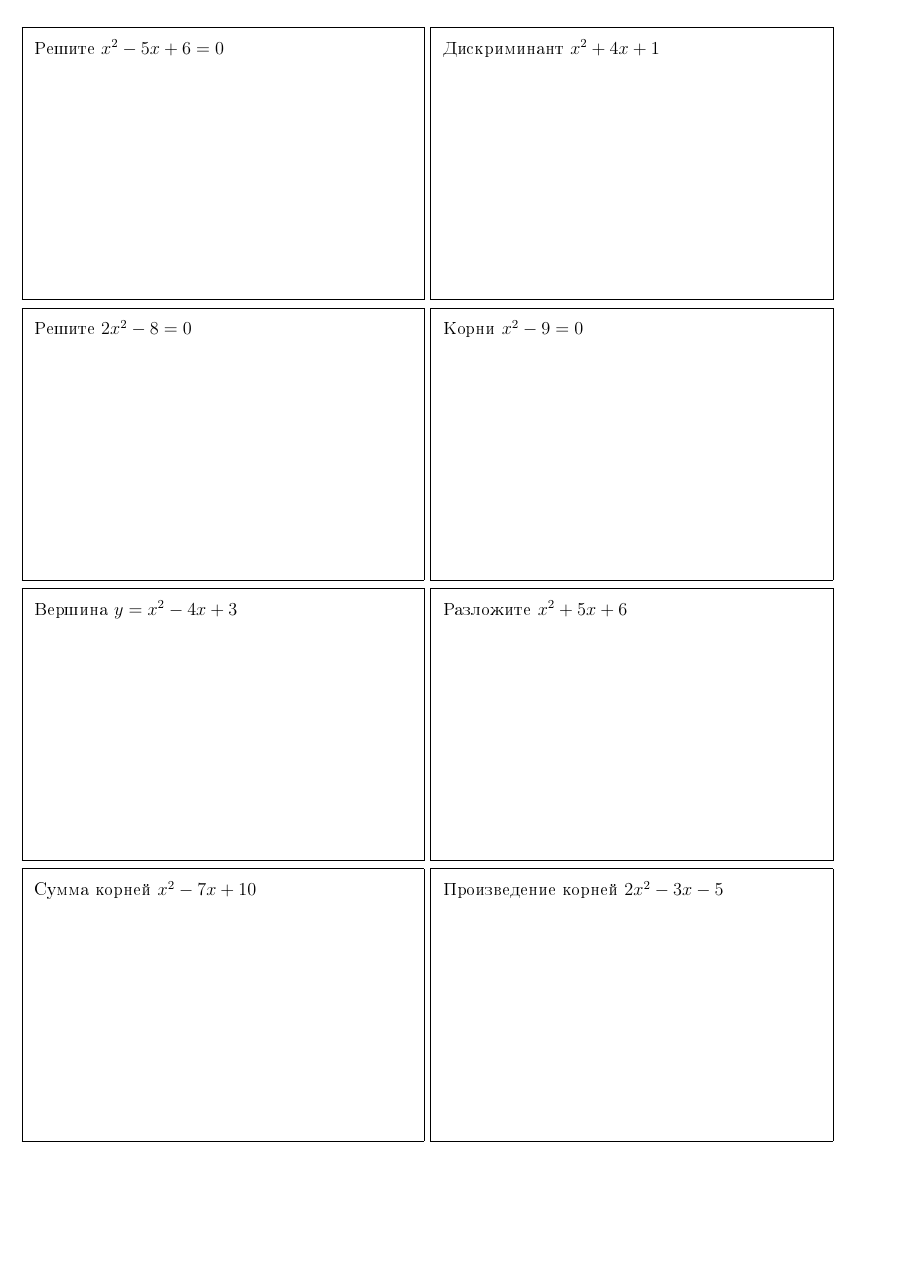
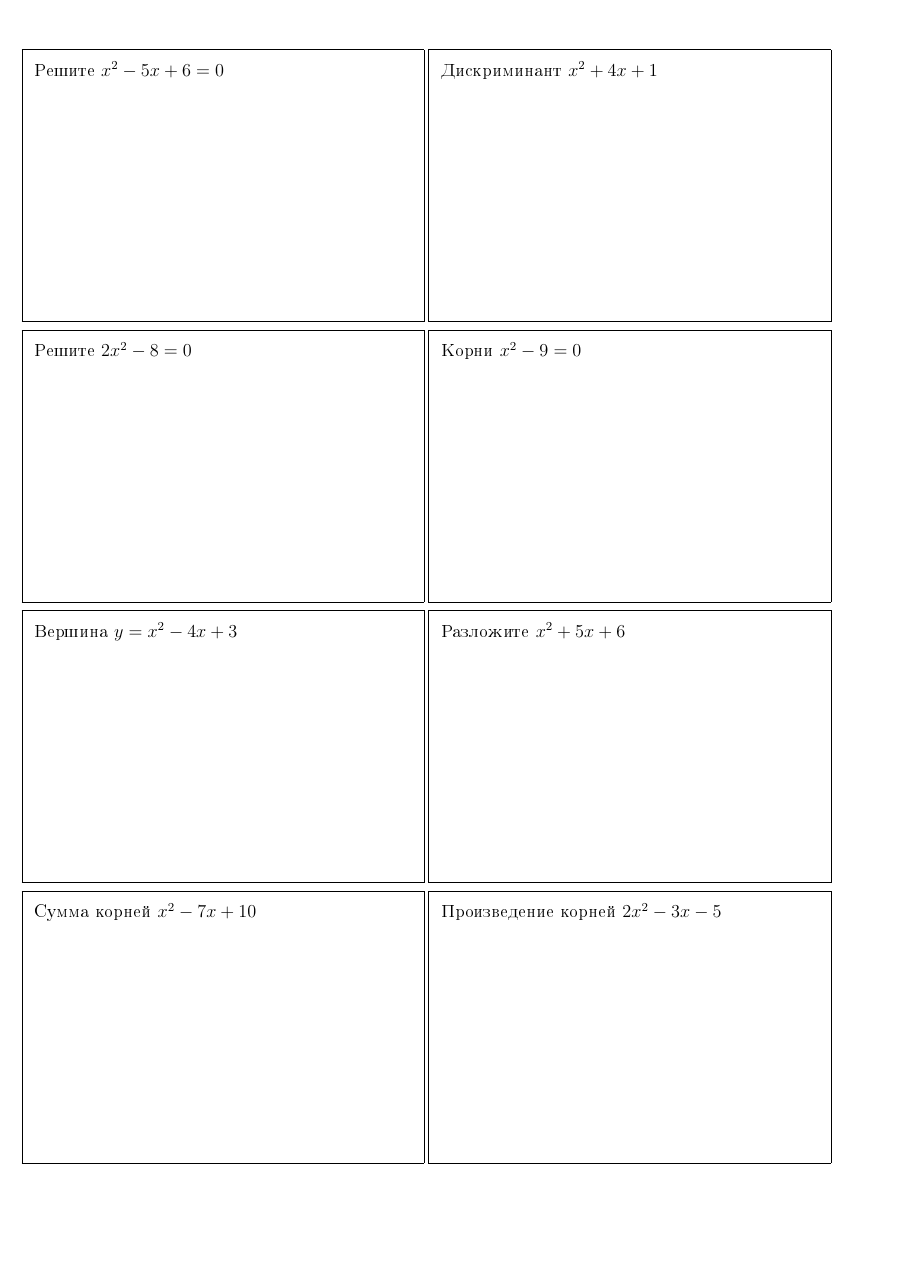
feat: add print calibration controls

diff --git a/app/didactic_cards/adapters/latex_renderer.py b/app/didactic_cards/adapters/latex_renderer.py
@@ -1,5 +1,6 @@
 from __future__ import annotations
 
+import math
 import re
 
 from ..domain.entities import Card, CardDeck
@@ -66,6 +67,11 @@ class LatexRenderer(DocumentRenderer):
         fbox_rule_pt: float = 0.4,
         back_border: bool = False,
         duplex_mode: DuplexMode | str = DuplexMode.LONG_EDGE,
+        front_offset_x_mm: float = 0.0,
+        front_offset_y_mm: float = 0.0,
+        back_offset_x_mm: float = 0.0,
+        back_offset_y_mm: float = 0.0,
+        registration_marks: bool = False,
     ):
         if cards_per_row <= 0 or rows_per_page <= 0:
             raise ValueError('cards_per_row and rows_per_page must be positive')
@@ -73,6 +79,16 @@ class LatexRenderer(DocumentRenderer):
             raise ValueError('card dimensions must be positive')
         if fbox_sep_pt < 0 or fbox_rule_pt < 0:
             raise ValueError('frame spacing and rule must not be negative')
+        offsets = (
+            front_offset_x_mm,
+            front_offset_y_mm,
+            back_offset_x_mm,
+            back_offset_y_mm,
+        )
+        if not all(math.isfinite(offset) for offset in offsets):
+            raise ValueError('calibration offsets must be finite')
+        if any(abs(offset) > 10 for offset in offsets):
+            raise ValueError('calibration offsets must be within +/- 10 mm')
 
         frame_inset_cm = 2 * (fbox_sep_pt + fbox_rule_pt) * PT_TO_CM
         if card_width_cm <= frame_inset_cm or card_height_cm <= frame_inset_cm:
@@ -93,6 +109,9 @@ class LatexRenderer(DocumentRenderer):
         self.fbox_rule = fbox_rule_pt
         self.back_border = back_border
         self.duplex_mode = DuplexMode(duplex_mode)
+        self.front_offset = (front_offset_x_mm, front_offset_y_mm)
+        self.back_offset = (back_offset_x_mm, back_offset_y_mm)
+        self.registration_marks = registration_marks
         self.cards_per_page = cards_per_row * rows_per_page
 
     def render(self, deck: CardDeck) -> str:
@@ -133,6 +152,7 @@ class LatexRenderer(DocumentRenderer):
 \usepackage{{enumitem}}
 \usepackage{{multicol}}
 \usepackage{{xcolor}}
+\usepackage{{tikz}}
 
 \geometry{{a4paper, margin=0.5cm}}
 
@@ -156,6 +176,18 @@ class LatexRenderer(DocumentRenderer):
 }}
 \newcommand{{\frontcard}}[1]{{\cardbox{{\fbox}}{{#1}}}}
 \newcommand{{\backcard}}[1]{{\cardbox{{{back_frame}}}{{#1}}}}
+\newcommand{{\registrationmarks}}{{%
+    \begin{{tikzpicture}}[remember picture,overlay,line width=0.2pt]
+    \draw ([yshift=-5mm]current page.north) ++(-3mm,0) -- ++(6mm,0);
+    \draw ([yshift=-5mm]current page.north) ++(0,-3mm) -- ++(0,6mm);
+    \draw ([yshift=5mm]current page.south) ++(-3mm,0) -- ++(6mm,0);
+    \draw ([yshift=5mm]current page.south) ++(0,-3mm) -- ++(0,6mm);
+    \draw ([xshift=5mm]current page.west) ++(-3mm,0) -- ++(6mm,0);
+    \draw ([xshift=5mm]current page.west) ++(0,-3mm) -- ++(0,6mm);
+    \draw ([xshift=-5mm]current page.east) ++(-3mm,0) -- ++(6mm,0);
+    \draw ([xshift=-5mm]current page.east) ++(0,-3mm) -- ++(0,6mm);
+    \end{{tikzpicture}}%
+}}
 
 \pagestyle{{empty}}
 \setlist[itemize]{{label={{}}, left=0.5em, itemsep=-2pt, topsep=0.5ex}}
@@ -166,7 +198,12 @@ class LatexRenderer(DocumentRenderer):
 
     def _render_page(self, cards: tuple[Card, ...], *, side: str) -> str:
         command = r'\frontcard' if side == 'front' else r'\backcard'
-        result = ''
+        offset_x, offset_y = self.front_offset if side == 'front' else self.back_offset
+        grid_width = self.cards_per_row * self.card_width
+        result = r'\registrationmarks' + '\n' if self.registration_marks else ''
+        result += f'\\vspace*{{{offset_y}mm}}%\n'
+        result += f'\\noindent\\hspace*{{{offset_x}mm}}%\n'
+        result += f'\\begin{{minipage}}[t]{{{grid_width}cm}}\n'
         for row in range(self.rows_per_page):
             for column in range(self.cards_per_row):
                 index = row * self.cards_per_row + column
@@ -176,4 +213,4 @@ class LatexRenderer(DocumentRenderer):
                     result += '%\n'
             if row < self.rows_per_page - 1:
                 result += '\n'
-        return result
+        return result + r'\end{minipage}' + '\n'

diff --git a/app/tests/test_latex_renderer.py b/app/tests/test_latex_renderer.py
@@ -1,4 +1,5 @@
 import pytest
+import re
 import shutil
 import subprocess
 from didactic_cards.domain.entities import Card, CardDeck
@@ -189,11 +190,40 @@ class TestLatexRenderer:
             {'card_width_cm': 0.1, 'fbox_sep_pt': 8},
             {'card_width_cm': 0},
             {'fbox_rule_pt': -0.1},
+            {'back_offset_x_mm': 11},
+            {'front_offset_y_mm': float('nan')},
         ],
     )
     def test_invalid_layout_is_rejected(self, kwargs):
         with pytest.raises(ValueError):
             LatexRenderer(**kwargs)
+
+    def test_calibration_offsets_are_applied_per_side(self):
+        source = LatexRenderer(
+            cards_per_row=1,
+            rows_per_page=1,
+            front_offset_x_mm=1.25,
+            front_offset_y_mm=-0.5,
+            back_offset_x_mm=-2.0,
+            back_offset_y_mm=0.75,
+        ).render(self.make_deck(1))
+        front_source, back_source = source.split('задние стороны', 1)
+        assert r'\hspace*{1.25mm}' in front_source
+        assert r'\vspace*{-0.5mm}' in front_source
+        assert r'\hspace*{-2.0mm}' in back_source
+        assert r'\vspace*{0.75mm}' in back_source
+
+    def test_registration_marks_are_opt_in(self):
+        without_marks = LatexRenderer(cards_per_row=1, rows_per_page=1).render(
+            self.make_deck(1)
+        )
+        with_marks = LatexRenderer(
+            cards_per_row=1,
+            rows_per_page=1,
+            registration_marks=True,
+        ).render(self.make_deck(1))
+        assert without_marks.count(r'\registrationmarks') == 1  # macro definition only
+        assert with_marks.count(r'\registrationmarks') == 3  # definition + two pages
 
     @pytest.mark.xfail(
         strict=True,
@@ -257,3 +287,42 @@ def test_real_pdf_interleaves_two_physical_sheets(tmp_path):
     assert 'BACK-2' in pages[1] and 'BACK-1' in pages[1]
     assert 'FRONT-3' in pages[2] and 'FRONT-4' in pages[2]
     assert 'BACK-4' in pages[3] and 'BACK-3' in pages[3]
+
+
+@pytest.mark.integration
+def test_real_pdf_card_frame_matches_configured_cut_size(tmp_path):
+    if not shutil.which('pdflatex') or not shutil.which('mutool'):
+        pytest.skip('pdflatex/mutool are required for the geometry integration test')
+
+    renderer = LatexRenderer(
+        card_width_cm=9.3,
+        card_height_cm=6.3,
+        cards_per_row=1,
+        rows_per_page=1,
+        back_border=True,
+        registration_marks=True,
+    )
+    result = PdfLatexCompiler().compile(
+        renderer.render(CardDeck([Card(front='FRAME-FRONT', back='FRAME-BACK')]))
+    )
+    assert result.success, result.log
+
+    pdf_path = tmp_path / 'geometry.pdf'
+    pdf_path.write_bytes(result.pdf_data)
+    svg_pattern = tmp_path / 'geometry-%d.svg'
+    subprocess.run(
+        ['mutool', 'draw', '-F', 'svg', '-o', str(svg_pattern), str(pdf_path), '1'],
+        capture_output=True,
+        text=True,
+        check=True,
+    )
+    svg = (tmp_path / 'geometry-1.svg').read_text(encoding='utf-8')
+    horizontal_lengths = [float(value) for value in re.findall(r'd="M0 0H([0-9.]+)', svg)]
+    vertical_lengths = [float(value) for value in re.findall(r'd="M0 0V([0-9.]+)', svg)]
+    rule_widths = [float(value) for value in re.findall(r'stroke-width="([0-9.]+)', svg)]
+
+    assert horizontal_lengths and vertical_lengths and rule_widths
+    width_cm = max(horizontal_lengths) * 2.54 / 72
+    height_cm = (max(vertical_lengths) + max(rule_widths)) * 2.54 / 72
+    assert width_cm == pytest.approx(9.3, abs=0.01)
+    assert height_cm == pytest.approx(6.3, abs=0.01)

diff --git a/app/config.py b/app/config.py
@@ -15,6 +15,11 @@ class CardLayoutConfig:
     fbox_rule_pt: float = 0.4
     back_border: bool = False  # True = рамка на обороте (для отладки центровки)
     duplex_mode: DuplexMode = DuplexMode.LONG_EDGE
+    front_offset_x_mm: float = 0.0
+    front_offset_y_mm: float = 0.0
+    back_offset_x_mm: float = 0.0
+    back_offset_y_mm: float = 0.0
+    registration_marks: bool = False
 
     def __post_init__(self) -> None:
         if self.cards_per_row <= 0 or self.rows_per_page <= 0:
@@ -24,6 +29,10 @@ class CardLayoutConfig:
             self.card_height_cm,
             self.fbox_sep_pt,
             self.fbox_rule_pt,
+            self.front_offset_x_mm,
+            self.front_offset_y_mm,
+            self.back_offset_x_mm,
+            self.back_offset_y_mm,
         )
         if not all(math.isfinite(value) for value in numeric_values):
             raise ValueError('layout dimensions must be finite')
@@ -31,6 +40,14 @@ class CardLayoutConfig:
             raise ValueError('card dimensions must be positive')
         if self.fbox_sep_pt < 0 or self.fbox_rule_pt < 0:
             raise ValueError('frame spacing and rule must not be negative')
+        offsets = (
+            self.front_offset_x_mm,
+            self.front_offset_y_mm,
+            self.back_offset_x_mm,
+            self.back_offset_y_mm,
+        )
+        if any(abs(offset) > 10 for offset in offsets):
+            raise ValueError('calibration offsets must be within +/- 10 mm')
 
         frame_inset_cm = 2 * (self.fbox_sep_pt + self.fbox_rule_pt) * 2.54 / 72.27
         if self.card_width_cm <= frame_inset_cm or self.card_height_cm <= frame_inset_cm:

diff --git a/app/run.py b/app/run.py
@@ -24,6 +24,11 @@ def create_app() -> Flask:
         fbox_rule_pt=layout.fbox_rule_pt,
         back_border=layout.back_border,
         duplex_mode=layout.duplex_mode,
+        front_offset_x_mm=layout.front_offset_x_mm,
+        front_offset_y_mm=layout.front_offset_y_mm,
+        back_offset_x_mm=layout.back_offset_x_mm,
+        back_offset_y_mm=layout.back_offset_y_mm,
+        registration_marks=layout.registration_marks,
     )
     app.config['COMPILER'] = PdfLatexCompiler(
         pdflatex_path=cfg.pdflatex_path,

diff --git a/app/tests/test_app_and_config.py b/app/tests/test_app_and_config.py
@@ -55,6 +55,8 @@ def test_data_location_is_independent_of_current_working_directory(tmp_path, mon
         {'card_width_cm': 0.1, 'fbox_sep_pt': 8},
         {'card_width_cm': 20, 'cards_per_row': 2},
         {'card_height_cm': 10, 'rows_per_page': 3},
+        {'back_offset_x_mm': 11},
+        {'front_offset_y_mm': float('nan')},
         {'duplex_mode': 'diagonal'},
     ],
 )

diff --git a/docs/REMEDIATION_PLAN.md b/docs/REMEDIATION_PLAN.md
@@ -14,8 +14,10 @@
   - [x] Убран безусловный поворот оборота на 180°.
   - [x] Настраиваемый размер стал внешним cut size; layout валидируется до компиляции.
   - [x] Добавлен реальный четырёхстраничный `pdflatex`/`pdftotext` integration test.
-  - [ ] Добавить calibration offsets, registration/crop marks и overflow preflight.
-  - [ ] Выполнить golden bounding-box/raster tests и физический прогон.
+  - [x] Добавлены независимые offsets сторон (±10 мм) и опциональные registration marks.
+  - [x] Реальный PDF geometry test измеряет векторную рамку через `mutool` с допуском 0.1 мм.
+  - [ ] Добавить overflow preflight.
+  - [ ] Выполнить raster golden tests и физический прогон.
 - [ ] Этап 2: безопасная граница TeX/HTTP.
 - [ ] Этап 3: транзакционное persistence.
 - [ ] Этап 4: импорт и web UX.
@@ -43,7 +45,7 @@
 - сгенерирован настоящий A4 PDF, обе страницы растеризованы и визуально проверены;
 - проверены зависимости через `pip check` и исходники через `git diff --check`.
 
-Текущая автоматизированная база: 120 проходящих тестов и 24 строгих `xfail`-контракта для подтверждённых дефектов. Общий branch coverage составляет 99.56% при обязательном CI-пороге 98%. Физический прогон на нескольких моделях принтеров ещё обязателен: PDF-проверка не моделирует driver margins, feed skew и аппаратный duplex offset.
+Текущая автоматизированная база: 127 проходящих тестов и 24 строгих `xfail`-контракта для подтверждённых дефектов. Общий branch coverage составляет 99.57% при обязательном CI-пороге 98%. Физический прогон на нескольких моделях принтеров ещё обязателен: PDF-проверка не моделирует driver margins, feed skew и аппаратный duplex offset.
 
 ## 3. Реестр дефектов
 
@@ -53,7 +55,7 @@
 |---|---|---|---|
 | ~~BUG-PRINT-001~~ ✅ | `LatexRenderer` формировал все fronts, затем все backs. | Выполнено: `Sheet` отделяет физическую модель, PDF идёт `F1,B1,F2,B2…`; unit и реальный четырёхстраничный TeX test проходят. | Автоматизированная часть выполнена; physical matrix остаётся в этапе 1. |
 | ~~BUG-PRINT-002~~ ✅ | Оборот сочетал horizontal mirror с `rotatebox{180}`. | Выполнено: явные long-edge/short-edge permutations без безусловного поворота текста. | Unit-transform tests проходят; физическая проверка обоих режимов остаётся. |
-| ~~BUG-PRINT-003~~ ✅ | `9.3 × 6.3` были размером inner minipage, а не cut box. | Выполнено: content box вычисляется вычитанием frame inset, `fboxrule` фиксирован явно. | Числовой contract выполнен; golden PDF geometry test остаётся частью этапа 1. |
+| ~~BUG-PRINT-003~~ ✅ | `9.3 × 6.3` были размером inner minipage, а не cut box. | Выполнено: content box вычисляется вычитанием frame inset, `fboxrule` фиксирован явно. | Векторная рамка реального PDF измеряется через `mutool` с допуском 0.1 мм. |
 | BUG-HTTP-003 | Русское имя PDF вызывает `UnicodeEncodeError` на реальном dev-сервере. | Использовать Werkzeug `send_file(..., download_name=...)` или ASCII fallback + `filename*=UTF-8''...`; нормализовать CR/LF/quotes. | Скачиваются имена на русском, emoji и кавычки; каждый header кодируется/отдаётся WSGI без ошибки. |
 | BUG-SEC-001 | Команды внутри `$...$` не экранируются. | Перейти от regex к ограниченному parser/allowlist математических команд; запретить `\input`, `\include`, `\write`, `\openin`, `\csname`, macro definitions и закрытие окружений. | Набор malicious fixtures не читает файлы, не меняет документ и даёт понятную validation error. |
 | BUG-SEC-002 | Нет явного `-no-shell-escape`. | Добавить `-no-shell-escape`, `-halt-on-error`, изолированный env/TEXMF; в deployment компилировать непривилегированным worker/container. | Команда компилятора проверена тестом; файловый и процессный sandbox подтверждён integration-тестом. |

diff --git a/docs/USER_AND_TECHNICAL_GUIDE.md b/docs/USER_AND_TECHNICAL_GUIDE.md
@@ -4,7 +4,7 @@
 
 Приложение хранит несколько колод, позволяет редактировать пары «задание — ответ» и генерирует A4 PDF размером 2 × 4 карточки. PDF строится не браузером: сервер экранирует текст, формирует LaTeX и запускает `pdflatex` во временном каталоге.
 
-Текущая версия подходит для редактирования контента и технического просмотра LaTeX. Программные блокеры `BUG-PRINT-001…003` уже устранены: PDF чередует стороны каждого физического листа, поддерживает long-edge/short-edge transforms и трактует заданные сантиметры как внешний размер карточки. Для ответственной печати всё ещё нужны calibration offsets, registration marks и физическая проверка на целевом принтере — драйвер может добавлять собственное смещение подачи.
+Текущая версия подходит для редактирования контента и технического просмотра LaTeX. Программные блокеры `BUG-PRINT-001…003` уже устранены: PDF чередует стороны каждого физического листа, поддерживает long-edge/short-edge transforms, независимые X/Y offsets, registration marks и трактует заданные сантиметры как внешний размер карточки. Для ответственной печати всё ещё нужна физическая проверка на целевом принтере — драйвер может добавлять собственное смещение подачи.
 
 ## 2. Установка
 
@@ -141,7 +141,15 @@ JSON files             PdfLatexCompiler
 - `web/blueprint.py`: HTML и AJAX endpoints.
 - `xelatex_compiler.py`: протестированная альтернативная реализация компилятора; активная конфигурация пока использует `pdflatex`.
 
-`CardLayoutConfig` задаёт внешний cut size `9.3 × 6.3 см`, 2 столбца, 4 ряда, `fboxsep=8pt`, толщину рамки и `duplex_mode`. Внутренняя `minipage` теперь автоматически уменьшается на padding и border, поэтому они не увеличивают физическую рамку.
+`CardLayoutConfig` задаёт внешний cut size `9.3 × 6.3 см`, 2 столбца, 4 ряда, `fboxsep=8pt`, толщину рамки и `duplex_mode`. Внутренняя `minipage` автоматически уменьшается на padding и border, поэтому они не увеличивают физическую рамку. Поля `front_offset_x_mm`, `front_offset_y_mm`, `back_offset_x_mm`, `back_offset_y_mm` принимают калибровку в диапазоне ±10 мм; `registration_marks=True` добавляет кресты на обе стороны листа.
+
+Рекомендуемый цикл калибровки:
+
+1. Временно включить `back_border=True` и `registration_marks=True`.
+2. Распечатать один лист в масштабе 100% выбранным duplex-режимом.
+3. Измерить смещение оборота относительно лица по X/Y.
+4. Внести компенсацию в `back_offset_x_mm`/`back_offset_y_mm`, повторить печать.
+5. После проверки выключить отладочную рамку и registration marks при необходимости.
 
 ## 6. Тесты и воспроизводимость аудита
 

diff --git a/README.md b/README.md
@@ -2,7 +2,7 @@
 
 Локальное Flask-приложение для создания колод дидактических карточек и сборки A4 PDF через LaTeX. У карточки есть лицевая сторона (задание) и оборотная сторона (ответ); данные сохраняются в JSON, поддерживаются пакетный ввод, CSV, формулы, сортировка, клонирование колод и PDF на 8 карточек на лист.
 
-> Статус после начала remediation 22.08.2026: программный порядок duplex-страниц исправлен (`front-1, back-1, front-2, back-2`), добавлены long-edge/short-edge transforms, а заданный размер теперь относится к внешней рамке карточки. Гарантия точности всё ещё требует calibration offsets и физического прогона; скачивание PDF с кириллическим названием колоды также пока ломает реальный dev-сервер. Актуальный прогресс — в [плане ревизии](docs/REMEDIATION_PLAN.md).
+> Статус после начала remediation 22.08.2026: программный порядок duplex-страниц исправлен (`front-1, back-1, front-2, back-2`), добавлены long-edge/short-edge transforms, независимые X/Y calibration offsets и registration marks, а заданный размер теперь относится к внешней рамке карточки и проверяется по векторной геометрии PDF. Гарантия точности всё ещё требует физического прогона; скачивание PDF с кириллическим названием колоды также пока ломает реальный dev-сервер. Актуальный прогресс — в [плане ревизии](docs/REMEDIATION_PLAN.md).
 
 ![Редактор колоды](docs/images/deck-editor.png)
 
